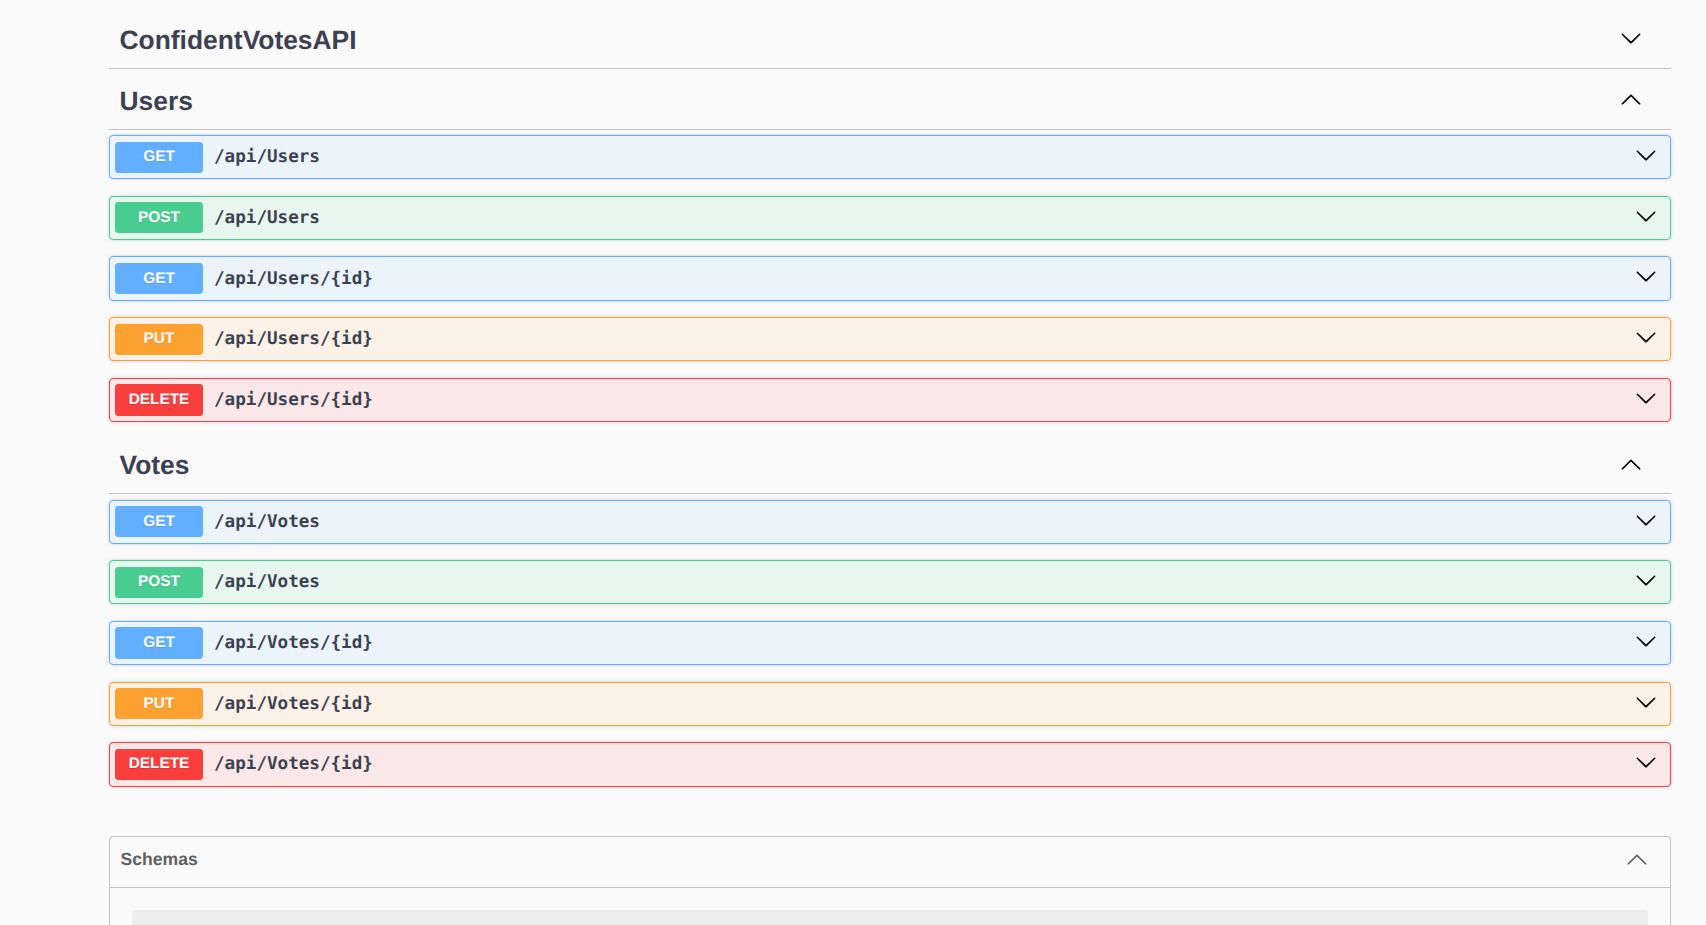
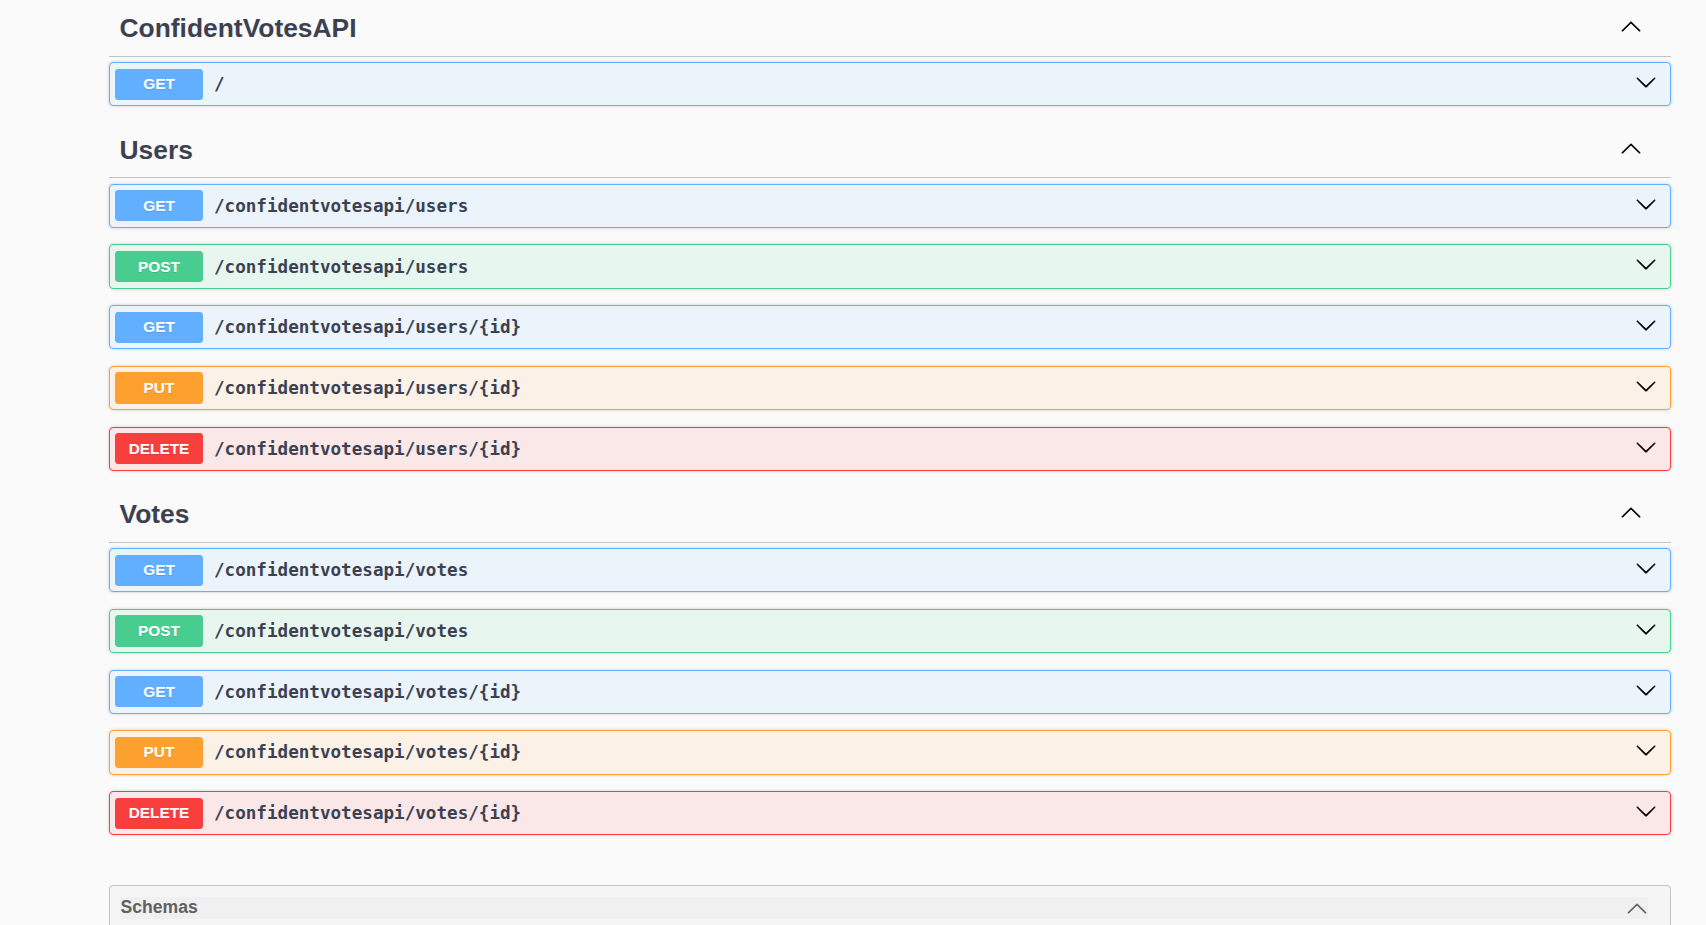
README image changed

diff --git a/Program.cs b/Program.cs
@@ -64,10 +64,8 @@ app.UseAuthorization();
 app.MapControllers();
 
 
-app.MapGet("/", () => @"/api is the base url  
-            and /users is the endpoint to retrieve users data!");
-app.MapPut("/", () => @"/api is the base url  
-            and /users is the endpoint to add users data!");
+app.MapGet("/", () => @"/confidentvotesapi is the base path
+/ and /votes are repsectively the endpoints to retrieve users and votes data!");
 // catch-all parameters : / is a delimiter if just used a simple string 
 // we get one string captured
 /*

diff --git a/Controllers/UsersController.cs b/Controllers/UsersController.cs
@@ -10,7 +10,8 @@ namespace ConfidentUsersAPI.Controllers
 {
     [ApiController]
 
-    [Route("api/[controller]")]
+    //[Route("confidentvotesapi/[controller]")]
+    [Route("confidentvotesapi/users")]
     // the class must be public
     public class UsersController : ControllerBase
     {   

diff --git a/Controllers/VotesController.cs b/Controllers/VotesController.cs
@@ -9,7 +9,7 @@ namespace ConfidentVotesAPI.Controllers
 {
     [ApiController]
 
-    [Route("api/[controller]")]
+    [Route("confidentvotesapi/votes")]
     // the class must be public
     public class VotesController : ControllerBase
     {   
